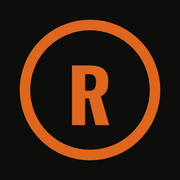
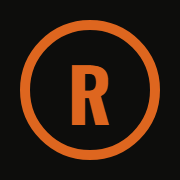
Make the brand assets regenerable with npm run brand
The Open Graph card and icons were rendered ad hoc, so refreshing them
meant redoing the work by hand. Commit the source art and a script that
renders all three into src/app/ in one command.

Scope the hollow-year rule to [data-hollow]. Templating the date into two
spans made ".date span" match both, stroking out the entire date.

Drop the sharp dependency: Playwright renders each asset at its final size
directly.

Claude-Session: https://claude.ai/code/session_01LVWD88GwpiZRZmQ6KnryNf

diff --git a/scripts/brand-assets.html b/scripts/brand-assets.html
@@ -1,0 +1,254 @@
+<!doctype html>
+<!--
+  Source art for the Open Graph card and the site icons.
+  Rendered to src/app/ by `npm run brand`. Edit here, never edit the output files.
+
+  The card is rendered in a real browser rather than generated with next/og
+  because Satori cannot draw -webkit-text-stroke, and the hollow year is the
+  most identifying mark in the design.
+-->
+<html>
+<head>
+<meta charset="utf-8">
+<link rel="preconnect" href="https://fonts.googleapis.com">
+<link rel="preconnect" href="https://fonts.gstatic.com" crossorigin>
+<link href="https://fonts.googleapis.com/css2?family=Oswald:wght@500;700&family=Spline+Sans+Mono:wght@400;600&family=Inter:wght@400;500&display=swap" rel="stylesheet">
+<style>
+  :root {
+    --court-ink: #12100d;
+    --ink-950: #0d0d0c;
+    --orange: #de661f;
+    --paper-100: #f2ecdf;
+    --record: #9a9285;
+    --record-dim: #6b6558;
+    --record-line: #46413a;
+    --shoulders: "Oswald", sans-serif;
+    --agate: "Spline Sans Mono", monospace;
+  }
+  * { box-sizing: border-box; margin: 0; padding: 0; }
+  body { overflow: hidden; background: transparent; }
+
+  /* Only the stage matching ?stage= is shown; the script screenshots the body. */
+  .stage { display: none; }
+  body[data-stage="card"] .stage-card,
+  body[data-stage="icon"] .stage-icon,
+  body[data-stage="apple"] .stage-icon { display: flex; }
+  body[data-stage="apple"] .stage-icon { background: var(--ink-950); }
+
+  /* ---------- Open Graph card (1200x630) ---------- */
+
+  .stage-card {
+    position: relative;
+    width: 1200px;
+    height: 630px;
+    background: var(--court-ink);
+    isolation: isolate;
+    overflow: hidden;
+  }
+
+  .stage-card img {
+    position: absolute;
+    z-index: -2;
+    inset: 0;
+    width: 100%;
+    height: 100%;
+    object-fit: cover;
+    object-position: center 42%;
+    filter: grayscale(1) contrast(1.12) brightness(0.82);
+  }
+
+  .scrim {
+    position: absolute;
+    z-index: -1;
+    inset: 0;
+    background:
+      linear-gradient(90deg, rgb(18 16 13 / 92%) 0%, rgb(18 16 13 / 72%) 46%, rgb(18 16 13 / 28%) 100%),
+      linear-gradient(0deg, rgb(18 16 13 / 96%) 0%, rgb(18 16 13 / 20%) 45%, rgb(18 16 13 / 55%) 100%);
+  }
+
+  .inner {
+    position: relative;
+    display: flex;
+    width: 100%;
+    flex-direction: column;
+    justify-content: space-between;
+    padding: 52px 60px 46px;
+  }
+
+  .wire {
+    color: var(--record);
+    font: 500 19px/1 var(--agate);
+    letter-spacing: 0.14em;
+    text-transform: uppercase;
+    text-shadow: 0 1px 8px rgb(0 0 0 / 70%);
+  }
+
+  .date {
+    margin-top: 14px;
+    font: 700 132px/0.9 var(--shoulders);
+    letter-spacing: 0.01em;
+    text-transform: uppercase;
+    color: var(--paper-100);
+    text-shadow: 0 2px 22px rgb(0 0 0 / 55%);
+    white-space: nowrap;
+  }
+
+  /* Only the year is hollow — scope this, or the whole date strokes out. */
+  .date span[data-hollow] {
+    color: transparent;
+    -webkit-text-stroke: 3px var(--paper-100);
+  }
+
+  .split {
+    position: relative;
+    margin-top: 30px;
+    padding-left: 34px;
+  }
+
+  .split::before {
+    content: "";
+    position: absolute;
+    top: -18px;
+    bottom: 4px;
+    left: 5px;
+    width: 3px;
+    background: linear-gradient(180deg, transparent, var(--record-line) 18%, var(--record-line) 62%, transparent);
+  }
+
+  .recorded {
+    display: flex;
+    align-items: center;
+    gap: 14px;
+    color: var(--record);
+    font: 400 21px/1.5 var(--agate);
+  }
+
+  .tag {
+    display: inline-block;
+    flex: 0 0 auto;
+    padding: 6px 10px;
+    border: 1px solid var(--record-line);
+    color: var(--record-dim);
+    font: 600 14px/1 var(--agate);
+    letter-spacing: 0.16em;
+    text-transform: uppercase;
+  }
+
+  .tag-alt {
+    border-color: rgb(222 102 31 / 60%);
+    color: var(--orange);
+  }
+
+  .playable {
+    position: relative;
+    margin: 44px 0 0 54px;
+  }
+
+  .branch {
+    position: absolute;
+    top: -58px;
+    left: -84px;
+    width: 78px;
+    height: 104px;
+  }
+
+  .branch path { fill: none; stroke: var(--orange); stroke-width: 3; }
+  .branch circle { fill: var(--orange); }
+
+  .pitch {
+    margin-top: 14px;
+    max-width: 560px;
+    color: var(--paper-100);
+    font: 400 33px/1.35 "Inter", system-ui, sans-serif;
+    font-style: normal;
+    text-shadow: 0 2px 14px rgb(0 0 0 / 60%);
+  }
+
+  .foot { display: flex; align-items: center; gap: 14px; }
+
+  .mark {
+    display: flex;
+    width: 44px;
+    height: 44px;
+    align-items: center;
+    justify-content: center;
+    border: 3px solid var(--orange);
+    border-radius: 50%;
+    color: var(--orange);
+    font: 700 22px/1 var(--shoulders);
+  }
+
+  .wordmark {
+    color: var(--paper-100);
+    font: 700 34px/1 var(--shoulders);
+    letter-spacing: 0.02em;
+  }
+
+  .foot em {
+    color: var(--record);
+    font: 400 19px/1 var(--agate);
+    font-style: normal;
+    letter-spacing: 0.06em;
+    text-transform: uppercase;
+  }
+
+  .foot .divider { color: var(--record-line); font-size: 22px; }
+
+  /* ---------- Site icon (square, scales to the viewport) ---------- */
+
+  .stage-icon {
+    width: 100vw;
+    height: 100vw;
+    align-items: center;
+    justify-content: center;
+  }
+
+  .icon-mark {
+    display: flex;
+    width: 78vw;
+    height: 78vw;
+    align-items: center;
+    justify-content: center;
+    border: 5.9vw solid var(--orange);
+    border-radius: 50%;
+    color: var(--orange);
+    font: 700 41vw/1 var(--shoulders);
+    letter-spacing: 0.01em;
+    padding-top: 2vw; /* Oswald's cap sits high in its box */
+  }
+</style>
+</head>
+<body>
+  <div class="stage stage-card">
+    <img id="card-photo" alt="">
+    <div class="scrim"></div>
+    <div class="inner">
+      <div>
+        <p class="wire" id="card-wire"></p>
+        <h1 class="date"><span data-solid></span> <span data-hollow></span></h1>
+        <div class="split">
+          <p class="recorded"><span class="tag">Recorded</span> <span id="card-recorded"></span></p>
+          <div class="playable">
+            <svg class="branch" viewBox="0 0 64 88" fill="none">
+              <path d="M2 0 V14 C2 50 20 70 56 76" />
+              <circle cx="59" cy="76.5" r="4.5" />
+            </svg>
+            <span class="tag tag-alt">Playable</span>
+            <p class="pitch" id="card-pitch"></p>
+          </div>
+        </div>
+      </div>
+      <div class="foot">
+        <span class="mark">R</span>
+        <span class="wordmark">RIPPLE</span>
+        <span class="divider">/</span>
+        <em>Alternate history, under pressure</em>
+      </div>
+    </div>
+  </div>
+
+  <div class="stage stage-icon">
+    <span class="icon-mark">R</span>
+  </div>
+</body>
+</html>

diff --git a/README.md b/README.md
@@ -53,6 +53,20 @@ The public pages encode one idea: **recorded history versus the playable branch.
 
 Display type is Oswald; body is Inter. All three faces load through `next/font`.
 
+### Brand assets
+
+The link-preview card and the site icons are generated, not hand-drawn:
+
+```powershell
+npm run brand
+```
+
+That renders `scripts/brand-assets.html` in a real browser and writes `opengraph-image.jpg`, `icon.png`, and `apple-icon.png` into `src/app/`, where Next wires them into metadata automatically. Edit the art in `scripts/brand-assets.html` and re-run — never hand-edit the output.
+
+Re-run it when the homepage's featured divergence changes (a different campaign on the front page, or reworded hero copy) and keep `FEATURED` in `scripts/brand-assets.mjs` in step with `src/components/home-hero.tsx`. Restyling and copy elsewhere on the site don't affect these files.
+
+It renders in Chromium rather than through `next/og` because Satori can't draw `-webkit-text-stroke`, and the hollow year is the most identifying mark in the design.
+
 ## Project structure
 
 - `src/app/` — routes and global design tokens
